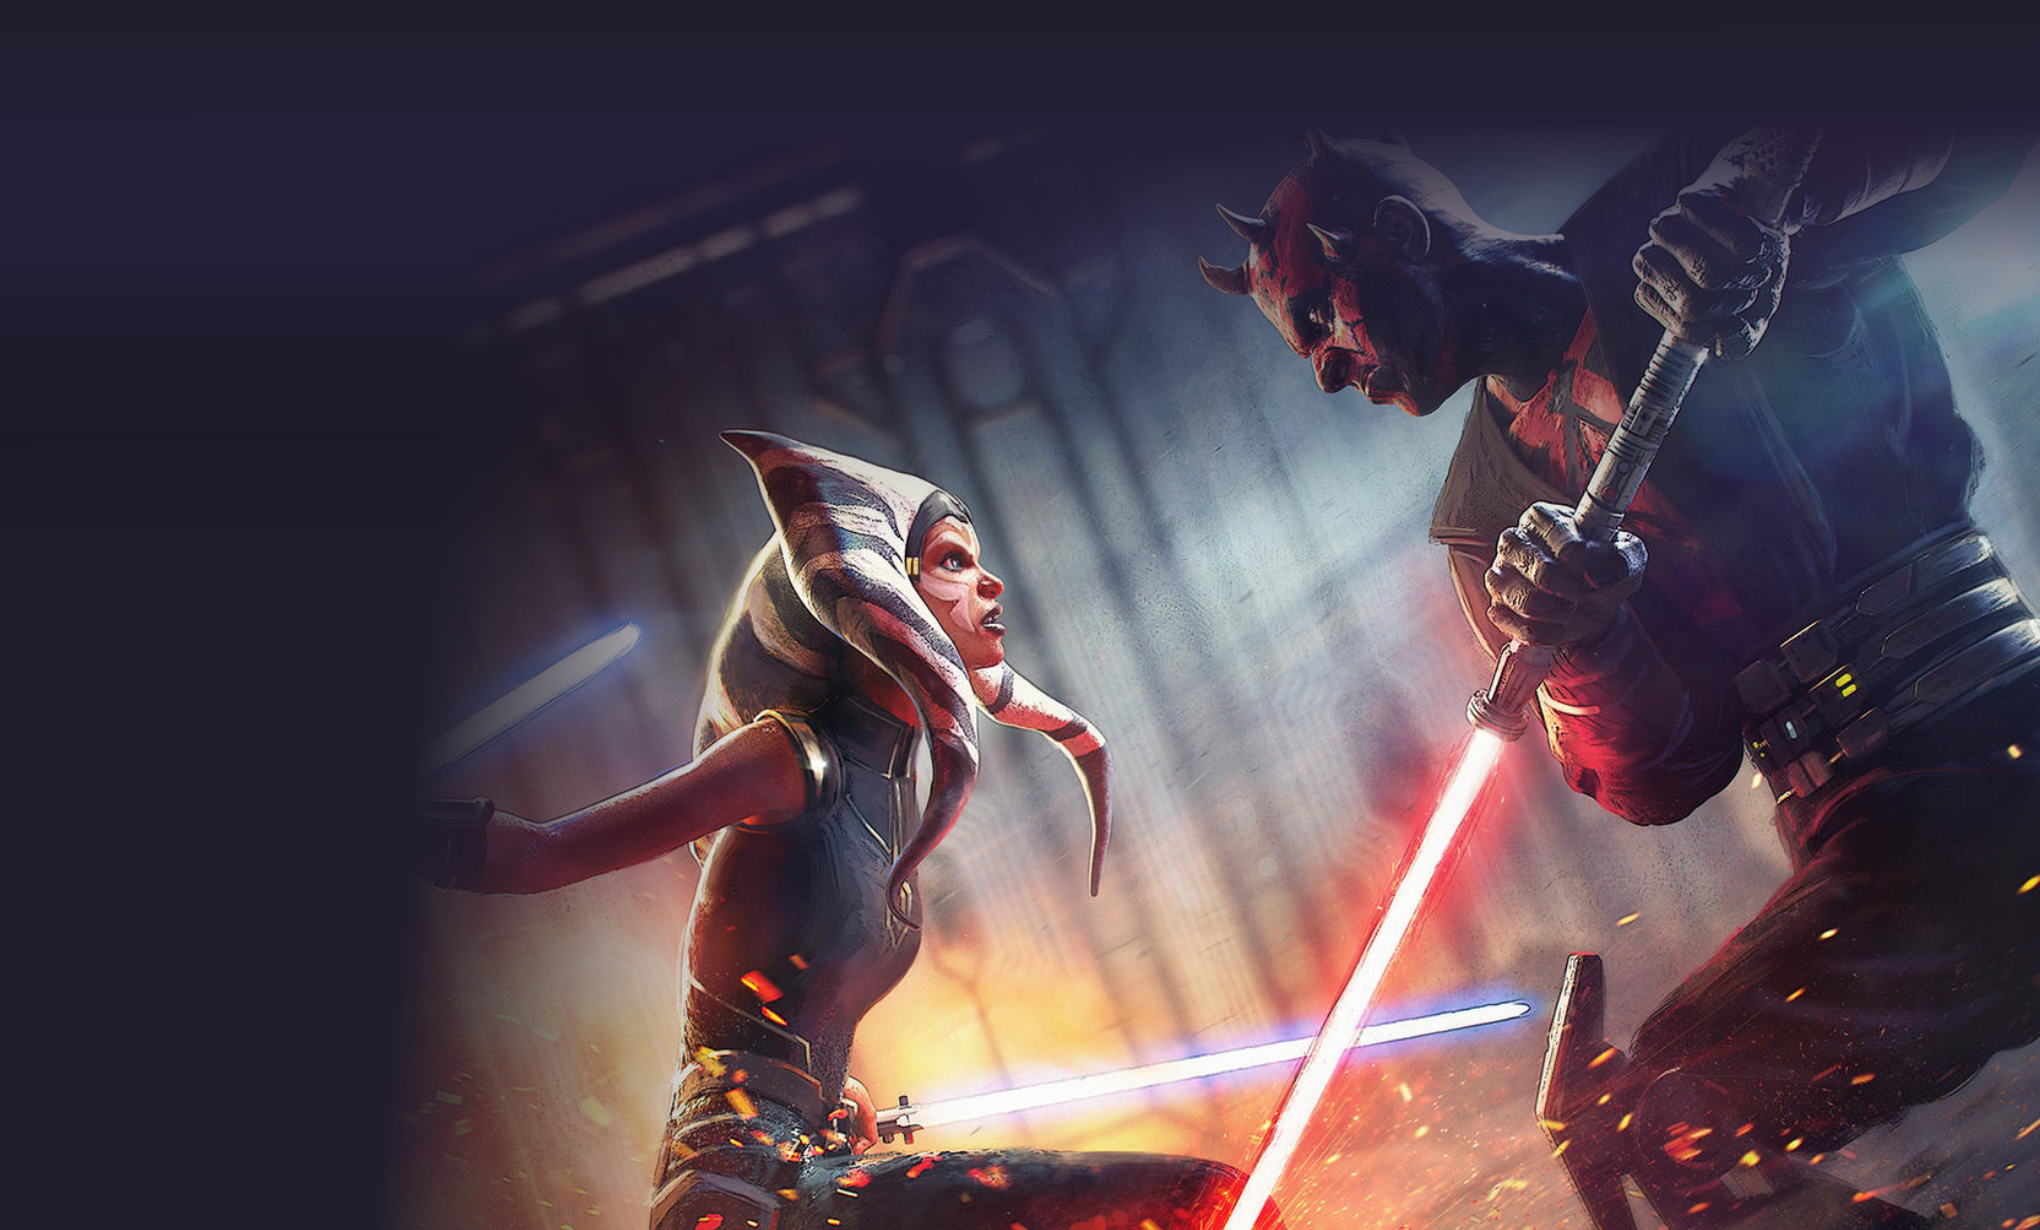
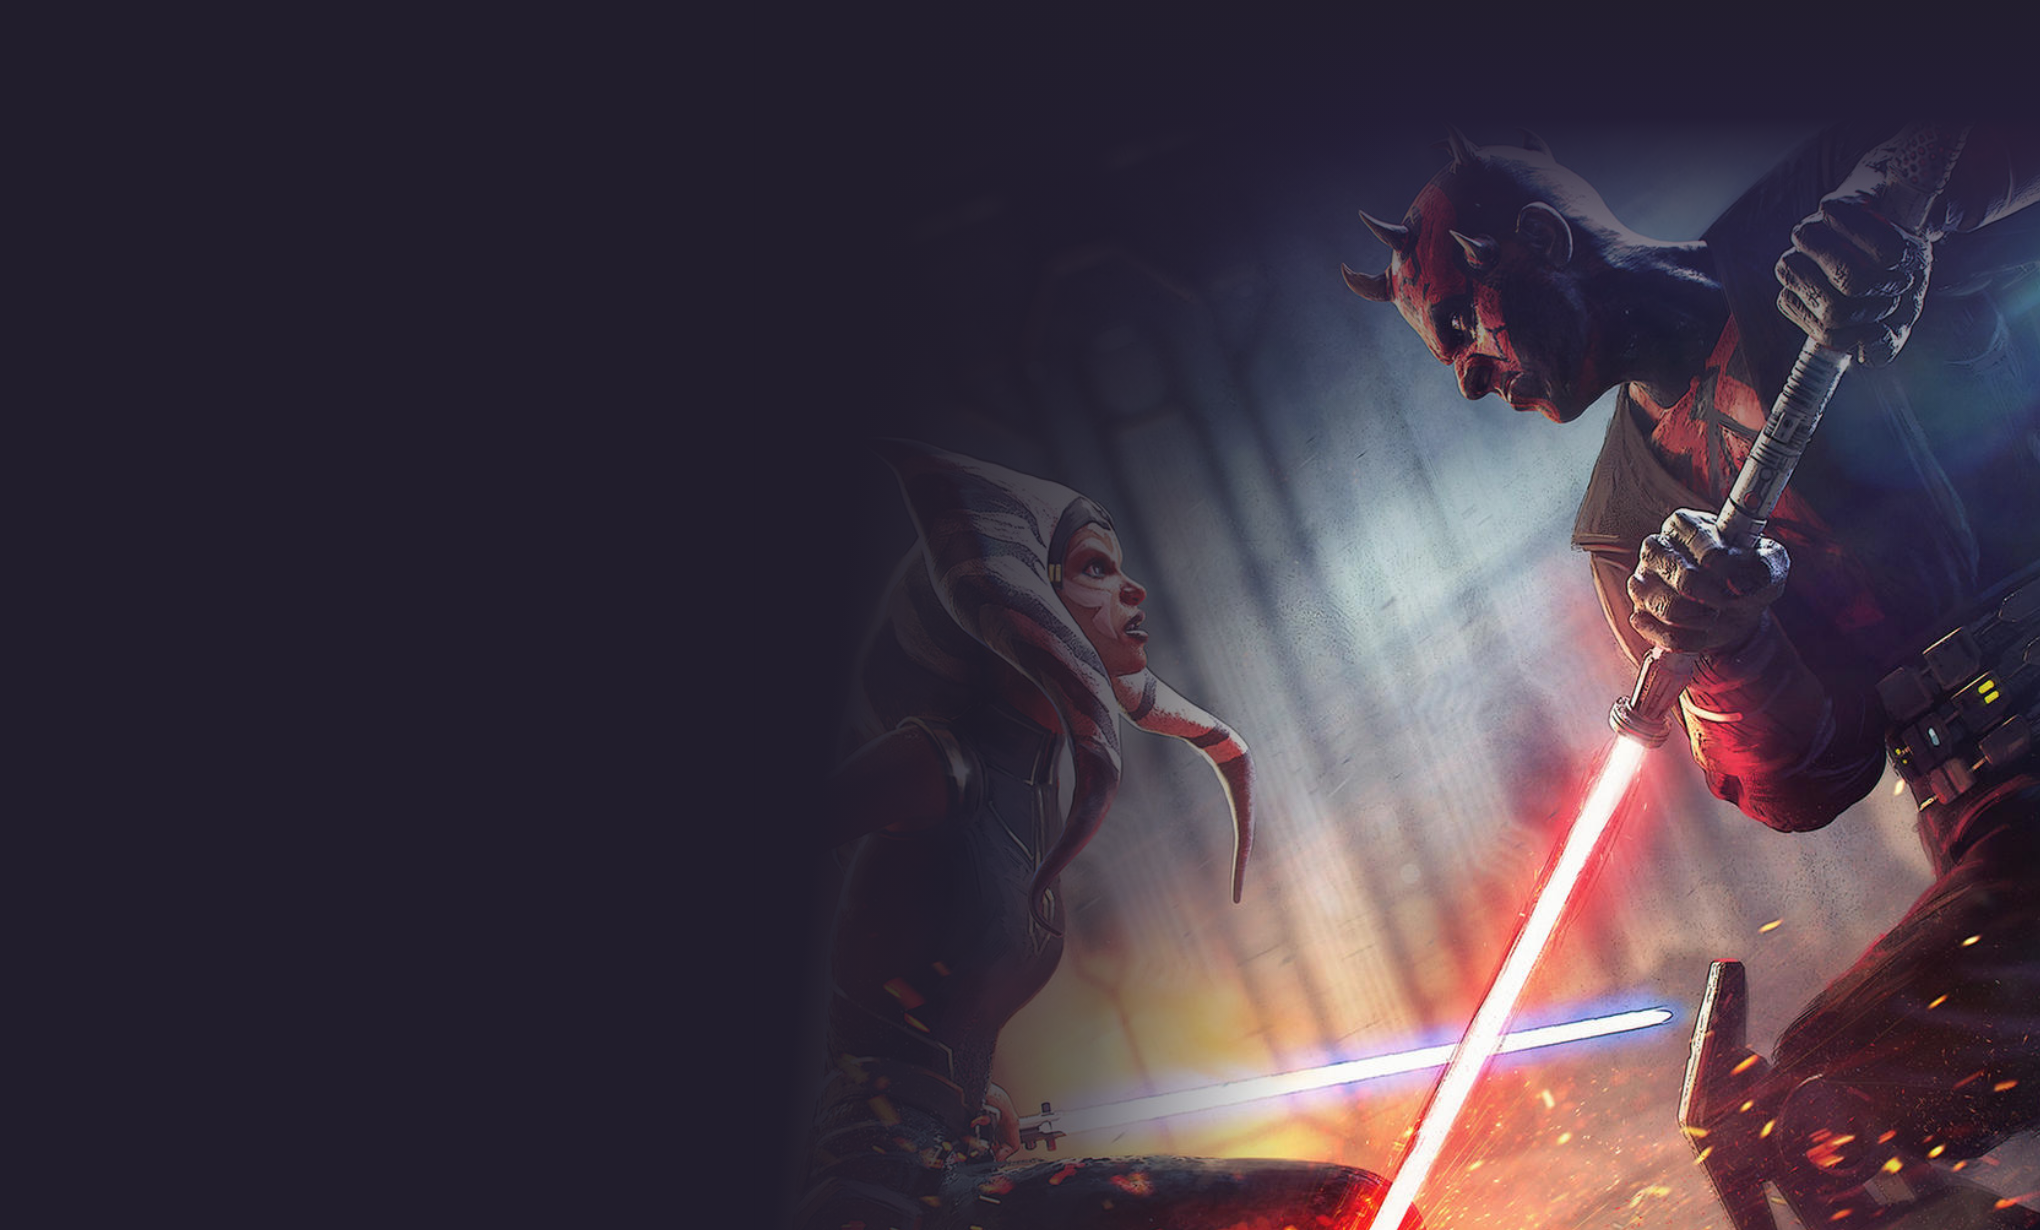
imagenes por defecto + imagenes de fondo en home

diff --git a/src/paginas/Conocenos/Personajes/DetallePersonaje.tsx b/src/paginas/Conocenos/Personajes/DetallePersonaje.tsx
@@ -5,20 +5,32 @@ import { personaType } from "../../../types/persona";
 import imgRangoNivel from './../../../assets/rango-ejemplo.svg';
 import styles from './css/detallePersonaje.module.css';
 import { DEFINITION } from "./../../../config/definitions";
+import { faccionType } from "types/faccion";
 
 export const DetallePersonaje = () => {
 
   const {
     personaSeleccionada,
     isLoadingPersona,
+    faccionSeleccionada
   }: {
     personaSeleccionada: personaType,
-    isLoadingPersona: boolean
+    isLoadingPersona: boolean,
+    faccionSeleccionada: faccionType
   } = useContext(ConocenosContext);
 
   const getRango = (rankname : string) => {
     const rango = DEFINITION.RANKS[rankname]
     return rango ? rango : imgRangoNivel;
+  }
+
+  const getImage = (image : string) => {
+    if(image){
+      return image;
+    } else {
+      console.log(faccionSeleccionada.name.toUpperCase());
+      return DEFINITION.FACTION_IMAGES[faccionSeleccionada.name.toUpperCase()].PROFILE;
+    }
   }
 
   return (
@@ -42,7 +54,7 @@ export const DetallePersonaje = () => {
           <div className="square-staff-border w-full sm:w-1/2 h-full absolute z-20" />
           <div className="square-staff absolute z-10 w-full sm:w-3/4 h-full bg-gradient-to-b from-transparent to-primary-100" />
           <div
-            style={{ backgroundImage: `url(${personaSeleccionada.image})` }}
+            style={{ backgroundImage: `url(${getImage(personaSeleccionada.image)})` }}
             className="square-staff bg-primary-90 w-full h-[400px] z-0 bg-no-repeat bg-cover bg-center" />
         </div>
         <div className="w-full sm:w-1/2">

diff --git a/src/paginas/Home/Home.tsx b/src/paginas/Home/Home.tsx
@@ -8,10 +8,10 @@ export const Home = () => {
     <section id="home" className="relative">
       <div className="container mx-auto h-screen px-10 relative z-10">
         <div className="grid grid-cols-12 gap-5 h-screen items-center">
-          <div className="col-span-12 sm:col-span-8 lg:col-span-4">
-            <img src={esgrimaJediValparaiso} alt="Esgrima Jedi Valparaíso" className="mb-5" />
-            <h1 className="font-secondary text-3xl text-secondary-100 my-3">{data.title}</h1>
-            <p className="text-white font-primary text-sm font-medium mb-5">Si eres fanático de Star Wars y estás buscando una forma divertida y emocionante de vivirlo, estas en el lugar correcto.</p>
+          <div className="col-span-12 sm:col-span-8 lg:col-span-5 mt-4">
+            <img src={esgrimaJediValparaiso} alt="Esgrima Jedi Valparaíso" className="mb-8 max-w-xs" />
+            <h1 className="font-terciary text-2xl text-white my-3 mt-4">{data.title}</h1>
+            <p className="text-white font-primary text-base font-light mb-5 opacity-80">Si eres fanático de Star Wars y estás buscando una forma divertida y emocionante de vivirlo, estas en el lugar correcto.</p>
             <a href="#somos"
               className="bg-no-repeat bg-cover bg-center font-primary font-bold text-secondary-100 text-xs py-3 px-10 border-secondary-100 border tracking-widest bg-primary-100 inline-block
               hover:bg-secondary-100 hover:text-white

diff --git a/src/config/definitions.tsx b/src/config/definitions.tsx
@@ -1,9 +1,15 @@
 import jedi from '../assets/facciones/jedi.svg';
 import jediHover from '../assets/facciones/jedi-hover.svg';
+import default_jedi from '../assets/facciones/default_jedi.png';
+
 import sith from '../assets/facciones/sith.svg';
 import sithHover from '../assets/facciones/sith-hover.svg';
+import default_sith from '../assets/facciones/default_sith.png';
+
 import neutral from '../assets/facciones/neutral.svg';
 import neutralHover from '../assets/facciones/neutral-hover.svg';
+import default_neutral from '../assets/facciones/default_neutral.png';
+
 import caballero from '../assets/rangos/knight.svg';
 import padawan from '../assets/rangos/padawan.svg';
 import maestro from '../assets/rangos/master.svg';
@@ -12,6 +18,7 @@ interface FactionImages {
   [key: string]: {
     NORMAL: string;
     HOVER: string;
+    PROFILE: string;
   };
 }
 
@@ -29,14 +36,17 @@ export const DEFINITION = {
     'JEDI': {
       NORMAL: jedi,
       HOVER: jediHover,
+      PROFILE: default_jedi
     },
     'SITH': {
       NORMAL: sith,
       HOVER: sithHover,
+      PROFILE: default_sith
     },
     'NEUTRAL': {
       NORMAL: neutral,
       HOVER: neutralHover,
+      PROFILE: default_neutral
     }
   } as FactionImages,
 

diff --git a/src/paginas/Conocenos/Personajes/BotonPersonaje.tsx b/src/paginas/Conocenos/Personajes/BotonPersonaje.tsx
@@ -1,6 +1,7 @@
 import { useContext } from "react";
 import { ConocenosContext } from "../context/ConocenosContext";
 import { personaType } from "../../../types/persona";
+import { DEFINITION } from "../../../config/definitions";
 
 export const BotonPersonaje = ({
   persona,
@@ -12,8 +13,18 @@ export const BotonPersonaje = ({
 
   const { 
     handlePersonaSeleccionada,
-    personaSeleccionada 
+    personaSeleccionada,
+    faccionSeleccionada
 } = useContext(ConocenosContext);
+
+const getImage = (image : string) => {
+  if(image){
+    return image;
+  } else {
+    console.log(faccionSeleccionada.name.toUpperCase());
+    return DEFINITION.FACTION_IMAGES[faccionSeleccionada.name.toUpperCase()].PROFILE;
+  }
+}
 
   return(
     <button 
@@ -24,7 +35,7 @@ export const BotonPersonaje = ({
           w-20 h-20 border border-primary-80 bg-no-repeat bg-center bg-cover hover:opacity-60
           ${personaSeleccionada.id ===  persona.id ? 'border-secondary-100 !opacity-100' : 'opacity-40' }
         `}
-        style={{ backgroundImage: `url(${persona.image})`
+        style={{ backgroundImage: `url(${getImage(persona.image)})`
         }}></div>
     </button>
   )

diff --git a/src/config/text.tsx b/src/config/text.tsx
@@ -29,7 +29,7 @@ export const SOMOS = {
 export const UNETE = {
    TITULO_SECCION: <>ELIGE tu lado<br />y únete al combate</>,
    DESCRIPCION: <>
-      <p className="text-primary-50 font-primary text-sm font-medium">¡no te pierdas nuestras prácticas de esgrima Jedi! Ven y experimenta la emoción de la lucha con sables láser. ¡Te esperamos con los brazos abiertos!</p>
+      <p className="text-primary-50 font-primary text-sm font-medium">¡no te pierdas nuestras prácticas de esgrima Jedi! Ven y experimenta la emoción de la lucha con sables láser.<br/>¡Te esperamos con los brazos abiertos!</p>
 
       <p className="text-primary-50 font-primary text-sm font-medium">...y que la fuerza te acompañe.</p>
    </>

diff --git a/src/paginas/Multimedia/componentes/PostInstagram.tsx b/src/paginas/Multimedia/componentes/PostInstagram.tsx
@@ -10,8 +10,8 @@ export const PostInstagram = ({
 }) => {
    return (
       <>
-         {posts.current.map((post: instagramPost) =>
-            <div className="col-span-12 sm:col-span-6 lg:col-span-3">
+         {posts.current.map((post: instagramPost, index : number) =>
+            <div className="col-span-12 sm:col-span-6 lg:col-span-3" key={index}>
                <div className="relative mx-4">
                   <div className="absolute z-30 w-full h-full flex text-center items-center justify-center">
                      <button

diff --git a/src/paginas/Home/images/index.tsx b/src/paginas/Home/images/index.tsx
@@ -1,9 +1,19 @@
 import b1 from './bg-home.png';
 import b2 from './bg-home-2.png';
+import b3 from './bg-home-3.png';
+import b4 from './bg-home-4.png';
+import b5 from './bg-home-5.png';
+import b6 from './bg-home-6.png';
+import b7 from './bg-home-7.png';
 
 const images = [
    b1,
-   b2
+   b2,
+   b3,
+   b4,
+   b5,
+   b6,
+   b7
 ]
 
 export default images;

diff --git a/src/paginas/Conocenos/Personajes/ListadoPersonajes.tsx b/src/paginas/Conocenos/Personajes/ListadoPersonajes.tsx
@@ -23,8 +23,6 @@ export const ListadoPersonajes = () => {
           spaceBetween={16}
           slidesPerView={10}
           navigation
-          onSlideChange={() => console.log('slide change')}
-          onSwiper={(swiper) => console.log(swiper)}
           breakpoints={{
             300: {
               slidesPerView: 1,
